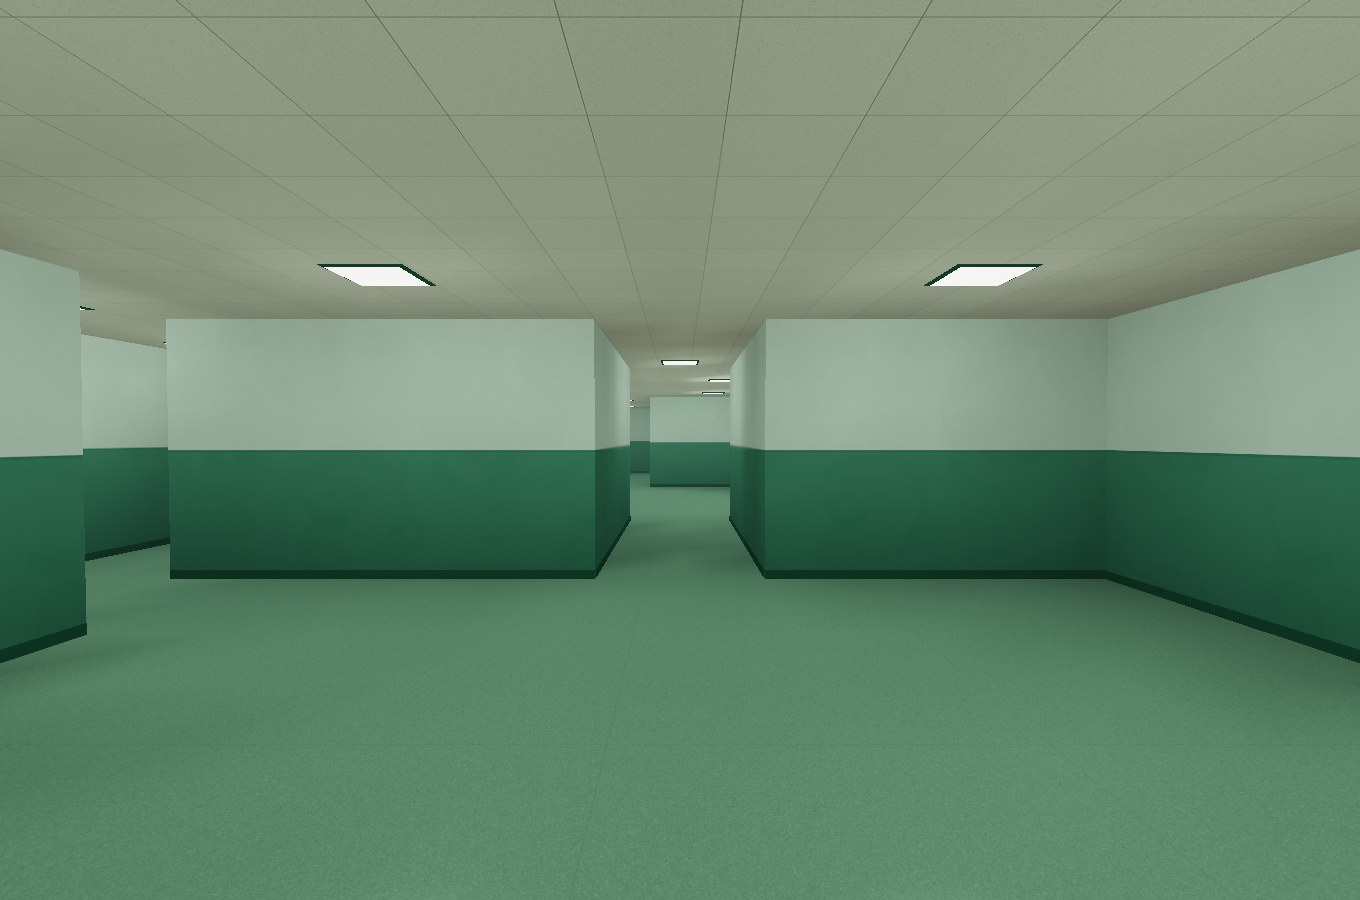
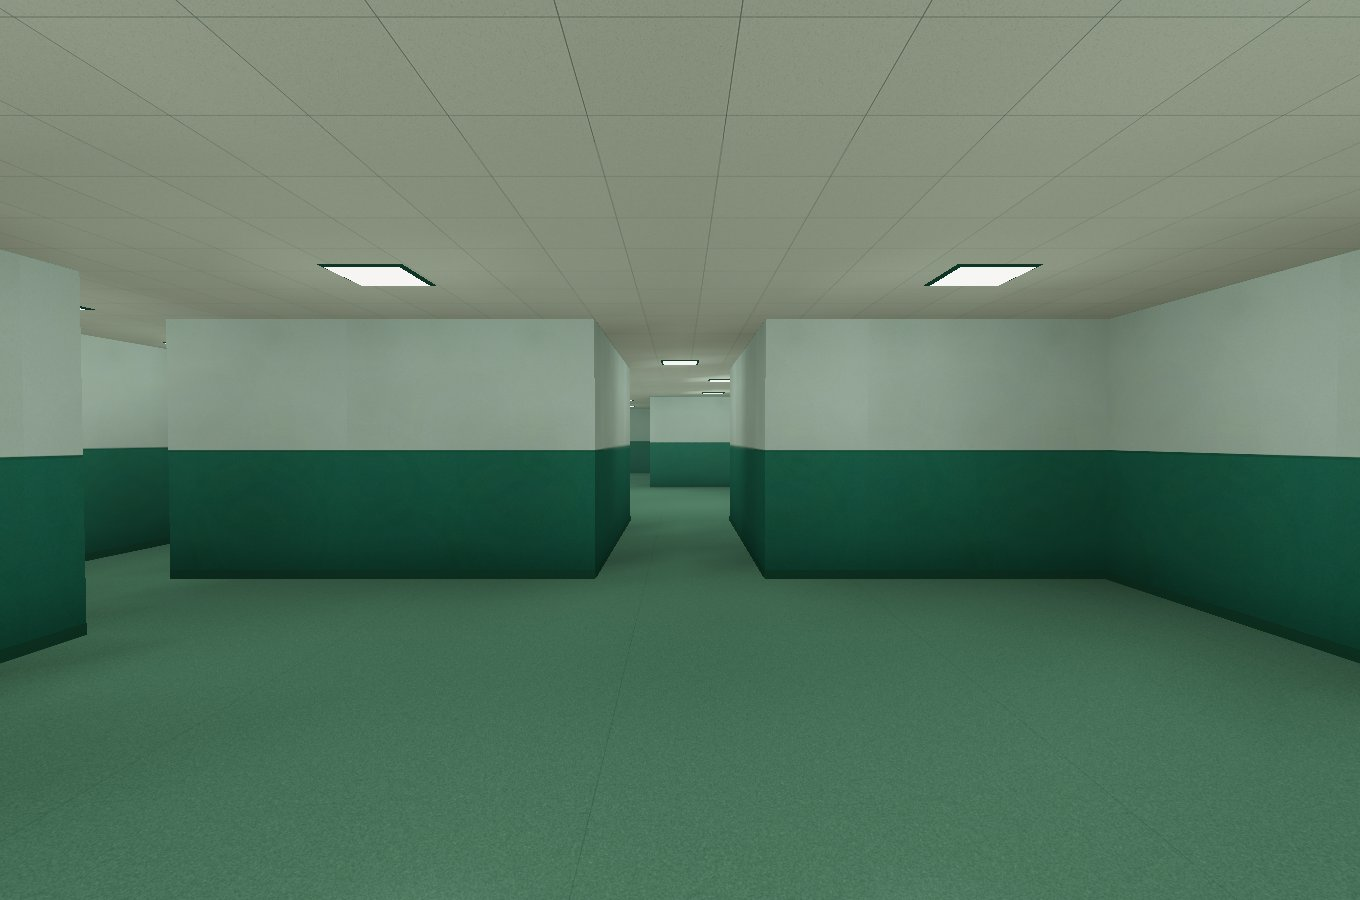
Refine hospital and pool materials, lighting, water reflections and ambient audio

diff --git a/materials.js b/materials.js
@@ -62,19 +62,21 @@ export function createTextures(anisotropy){
       stains(c,.045);
     },anisotropy),
     hospitalWall:texture(c=>{
-      c.fillStyle='#b3c2b4';c.fillRect(0,0,512,260);
-      c.fillStyle='#507f6b';c.fillRect(0,260,512,252);
-      c.fillStyle='#4a7765';c.fillRect(0,257,512,4);noise(c,4);stains(c,.035);
+      c.fillStyle='#b5beb0';c.fillRect(0,0,512,260);
+      c.fillStyle='#427665';c.fillRect(0,260,512,252);
+      c.fillStyle='#3d6d5c';c.fillRect(0,257,512,4);noise(c,6);stains(c,.055);
+      for(let i=0;i<70;i++){c.fillStyle='rgba(32,54,43,.09)';c.fillRect(random()*512,350+random()*162,3+random()*12,.7);}
       c.fillStyle='rgba(222,231,218,.11)';c.fillRect(0,505,512,2);
     },anisotropy),
     hospitalFloor:texture(c=>{
-      c.fillStyle='#6e8e79';c.fillRect(0,0,512,512);noise(c,14);
+      c.fillStyle='#678571';c.fillRect(0,0,512,512);noise(c,18);
       for(let i=0;i<4500;i++){c.fillStyle=random()>.5?'rgba(210,221,197,.13)':'rgba(33,67,48,.09)';c.fillRect(random()*512,random()*512,1.4,1.4);}
-      c.fillStyle='rgba(35,62,48,.09)';c.fillRect(0,0,1,512);c.fillRect(0,0,512,1);
+      c.fillStyle='rgba(35,62,48,.18)';c.fillRect(0,0,1,512);
+      for(let i=0;i<32;i++){c.strokeStyle='rgba(35,53,43,.055)';c.lineWidth=1+random()*2;c.beginPath();const x=random()*512,y=random()*512;c.moveTo(x,y);c.lineTo(x+8+random()*30,y+random()*8);c.stroke();}
     },anisotropy),
-    poolWall:texture(c=>{tiles(c,'#c8d7cc','#9daea4',64);noise(c,3);},anisotropy),
-    poolFloor:texture(c=>{tiles(c,'#c5d2c4','#8caaa0',64);noise(c,5);},anisotropy),
-    poolBottom:texture(c=>{tiles(c,'#76a7a4','#668f8d',32);noise(c,5);},anisotropy),
+    poolWall:texture(c=>{tiles(c,'#d3ded7','#8ba4a0',64);noise(c,4);},anisotropy),
+    poolFloor:texture(c=>{tiles(c,'#c4d2cb','#7f9a96',64);noise(c,8);},anisotropy),
+    poolBottom:texture(c=>{tiles(c,'#7daeb4','#507f88',32);noise(c,5);},anisotropy),
     ceiling:texture(c=>{
       tiles(c,'#c4c5b1','#8f9587',256);noise(c,12);
       c.fillStyle='rgba(54,59,43,.22)';for(let i=0;i<5400;i++)c.fillRect(random()*512,random()*512,1,1);
@@ -116,12 +118,24 @@ export const fragmentShader=`
   void main(){
     vec3 albedo=texture2D(map,vUv).rgb;
     vec3 color=albedo*vLight;
-    if(atmosphere>.5){
+    if(atmosphere>.5 && atmosphere<1.5){
       float wear=.5+.5*sin(vWorld.x*.63+sin(vWorld.z*.41))*sin(vWorld.z*.74+vWorld.x*.16);
       color*=.91+.09*wear;
       // Slow, shallow light drift: no abrupt flashes, disabled for reduced motion.
       color*=.978+.022*sin(time*.64+vWorld.x*.21+vWorld.z*.18);
       if(abs(vNormal.y)<.5)color*=.86+.14*smoothstep(.0,.65,vWorld.y);
+    }
+    if(atmosphere>1.5 && atmosphere<2.5){
+      float scuff=.5+.5*sin(vWorld.x*.8+vWorld.z*.33)*sin(vWorld.z*1.2);
+      color*=.91+.09*scuff;
+      if(abs(vNormal.y)<.5)color*=.83+.17*smoothstep(0.,.55,vWorld.y);
+    }
+    if(atmosphere>2.5){
+      // Soft reflected ripples along the lower tiled walls.
+      float wave=sin(vWorld.x*4.7+vWorld.z*3.8+sin(vWorld.y*5.+time*.5));
+      float crossWave=sin(vWorld.x*2.6-vWorld.z*5.1+time*.42+vWorld.y*3.);
+      float caustic=pow(max(0.,1.-abs(wave+crossWave)*.6),9.);
+      color+=vec3(.035,.065,.07)*caustic*exp(-max(0.,vWorld.y)*.9);
     }
     vec3 view=normalize(cameraPosition-vWorld);
     if(gloss>0.0 && vNormal.y>.5){
@@ -130,7 +144,7 @@ export const fragmentShader=`
         for(int i=0;i<8;i++){
           float t=(lamps[i].y-vWorld.y)/ray.y;
           vec2 d=vWorld.xz+ray.xz*t-lamps[i].xz;
-          float halo=exp(-dot(d,d)*2.5);
+          float halo=exp(-pow(d.x*2.8,4.)-pow(d.y*1.6,4.))*.65+exp(-dot(d,d)*1.4)*.18;
           float falloff=1./(1.+t*.08);
           color+=vec3(.72,.82,.7)*halo*falloff*gloss;
         }
@@ -162,8 +176,8 @@ export const waterFragment=`
     vec2 uv=p*4.2+vec2(a,b)*.065;
     vec2 tile=abs(fract(uv)-.5);
     float grout=smoothstep(.47,.49,max(tile.x,tile.y));
-    float caustic=pow(.5+.5*sin(p.x*9.+sin(p.y*7.+time*.3)+time*.36),14.)*.04;
-    vec3 color=mix(vec3(.105,.31,.30),vec3(.19,.39,.38),fresnel);
+    float caustic=pow(max(0.,1.-abs(sin(p.x*8.+sin(p.y*5.+time*.3))+cos(p.y*7.-time*.36))*.5),12.)*.085;
+    vec3 color=mix(vec3(.085,.28,.32),vec3(.22,.40,.43),fresnel);
     color*=1.-grout*.22;color+=caustic;
     vec3 ray=reflect(-v,n);
     if(ray.y>.01)for(int i=0;i<8;i++){

diff --git a/engine.js b/engine.js
@@ -1,6 +1,6 @@
 import * as THREE from './vendor/three.module.min.js';
-import {createTextures} from './materials.js?v=yellow-2';
-import {buildArchitecture} from './architecture.js?v=yellow-2';
+import {createTextures} from './materials.js?v=zones-3';
+import {buildArchitecture} from './architecture.js?v=zones-3';
 import {zoneAt,movePlayer,heights} from './layout.js';
 import {installTouchControls,createJump} from './controls.js?v=touch-1';
 
@@ -29,7 +29,8 @@ const touch=installTouchControls(canvas,[...document.querySelectorAll('#touch-co
 });
 document.body.classList.toggle('has-touch',navigator.maxTouchPoints>0);
 let last=performance.now(),time=0,steps=0,lampTimer=1,dragging=false,muted=false;
-let audio=null,humGain=null,noiseGain=null,filter=null;
+let audio=null,humGain=null,noiseGain=null,filter=null,poolGain=null,echo=null;
+let nextDrip=3;
 const reduceMotion=matchMedia('(prefers-reduced-motion: reduce)').matches;
 const moods={yellow:{fog:'#797653',density:.021},hospital:{fog:'#45675b',density:.025},pool:{fog:'#8aada5',density:.023}};
 const fogTarget=new THREE.Color();
@@ -53,7 +54,20 @@ function startAudio(){
   filter=audio.createBiquadFilter();filter.type='lowpass';filter.frequency.value=850;
   noiseGain=audio.createGain();noiseGain.gain.value=.07;
   source.connect(filter);filter.connect(noiseGain);noiseGain.connect(audio.destination);source.start();
+  // Short feedback echo gives the tiled rooms a different acoustic space.
+  poolGain=audio.createGain();poolGain.gain.value=0;poolGain.connect(audio.destination);
+  echo=audio.createDelay(1);echo.delayTime.value=.23;
+  const feedback=audio.createGain();feedback.gain.value=.32;
+  const damping=audio.createBiquadFilter();damping.type='lowpass';damping.frequency.value=1800;
+  echo.connect(damping);damping.connect(feedback);feedback.connect(echo);damping.connect(poolGain);
   audio.resume().catch(()=>{});
+}
+function waterDrop(){
+  const now=audio.currentTime,osc=audio.createOscillator(),gain=audio.createGain();
+  osc.type='sine';osc.frequency.setValueAtTime(950,now);osc.frequency.exponentialRampToValueAtTime(380,now+.12);
+  gain.gain.setValueAtTime(0,now);gain.gain.linearRampToValueAtTime(.022,now+.006);gain.gain.exponentialRampToValueAtTime(.0001,now+.23);
+  osc.connect(gain);gain.connect(poolGain);gain.connect(echo);osc.start(now);osc.stop(now+.25);
+  osc.onended=()=>{osc.disconnect();gain.disconnect();};
 }
 canvas.addEventListener('pointerdown',e=>{
   if(e.pointerType!=='mouse'||e.button!==0)return;
@@ -118,8 +132,10 @@ function animate(now){
     const proximity=1/(1+Math.hypot(closest.x-player.x,closest.z-player.z)*.6);
     const buzz=zone==='yellow'?.005+proximity*.009*(.92+.08*Math.sin(time*.64)):zone==='pool'?.002:.008;
     humGain.gain.setTargetAtTime(muted?0:buzz,audio.currentTime,.4);
-    noiseGain.gain.setTargetAtTime(muted?0:zone==='pool'?.14:.055,audio.currentTime,.4);
-    filter.frequency.setTargetAtTime(zone==='pool'?1400:650,audio.currentTime,.5);
+    noiseGain.gain.setTargetAtTime(muted?0:zone==='pool'?.11*(.88+.12*Math.sin(time*.37)):zone==='hospital'?.04:.055,audio.currentTime,.4);
+    filter.frequency.setTargetAtTime(zone==='pool'?1100:zone==='hospital'?340:650,audio.currentTime,.5);
+    poolGain.gain.setTargetAtTime(muted||zone!=='pool'?0:.45,audio.currentTime,.3);
+    if(zone==='pool'&&!muted){nextDrip-=dt;if(nextDrip<=0){waterDrop();nextDrip=3.5+Math.random()*4.5;}}
   }
   renderer.render(scene,camera);
 }

diff --git a/architecture.js b/architecture.js
@@ -1,15 +1,15 @@
 import * as THREE from './vendor/three.module.min.js';
 import {floor,WIDTH,DEPTH,rooms,corridors,pools,columns,isFloor,zoneAt,heights,lineOfSight} from './layout.js';
-import {vertexShader,fragmentShader,waterVertex,waterFragment} from './materials.js?v=yellow-2';
+import {vertexShader,fragmentShader,waterVertex,waterFragment} from './materials.js?v=zones-3';
 
 export function buildArchitecture(scene,textures,shared){
   const lamps=[];
-  const lightColors={yellow:[1,.95,.75],hospital:[.78,1,.87],pool:[.83,.96,1]};
+  const lightColors={yellow:[1,.95,.75],hospital:[.70,.92,.86],pool:[.83,.96,1]};
   function lamp(x,z){
     if(!isFloor(x,z)||lamps.some(l=>Math.hypot(l.x-x,l.z-z)<2.65))return;
     const zone=zoneAt(x,z);
     const variation=(Math.sin(x*12.9898+z*78.233)*43758.5453)%1;
-    const power=zone==='yellow'?.38+.85*Math.abs(variation):1;
+    const power=zone==='yellow'?.38+.85*Math.abs(variation):zone==='hospital'?.65+.5*Math.abs(variation):.9+.2*Math.abs(variation);
     lamps.push({x,z,y:heights[zone]-.09,zone,power,color:lightColors[zone]});
   }
   rooms.forEach(r=>{
@@ -140,7 +140,7 @@ export function buildArchitecture(scene,textures,shared){
     geo.setAttribute('uv',new THREE.Float32BufferAttribute(g.uv,2));
     geo.setAttribute('light',new THREE.Float32BufferAttribute(g.light,3));geo.computeBoundingSphere();
     const material=new THREE.ShaderMaterial({
-      vertexShader,fragmentShader,uniforms:{...shared,map:{value:textures[name]},atmosphere:{value:name.startsWith('yellow')?1:0},gloss:{value:name==='hospitalFloor'?.16:name==='poolFloor'?.21:0},emission:{value:name==='light'?2.6:0}}
+      vertexShader,fragmentShader,uniforms:{...shared,map:{value:textures[name]},atmosphere:{value:name.startsWith('yellow')?1:name.startsWith('hospital')?2:name.startsWith('pool')?3:0},gloss:{value:name==='hospitalFloor'?.23:name==='poolFloor'?.30:0},emission:{value:name==='light'?2.6:0}}
     });
     const mesh=new THREE.Mesh(geo,material);scene.add(mesh);triangles+=g.p.length/9;
   }

diff --git a/index.html b/index.html
@@ -16,6 +16,6 @@
     <button type="button" data-action="jump">Salta</button>
   </div>
   <noscript>Attiva JavaScript per esplorare FLOOR 05.</noscript>
-  <script type="module" src="engine.js?v=yellow-2"></script>
+  <script type="module" src="engine.js?v=zones-3"></script>
 </body>
 </html>

diff --git a/README.md b/README.md
@@ -14,6 +14,8 @@ Il rendering usa Three.js r170 incluso nel repository, texture procedurali, illu
 
 La zona gialla usa carta da parati procedurale ispirata ai riferimenti forniti: doppie righe, chevron consumati e trama tessuta. Moquette a fibre corte, angoli più scuri e neon di intensità diversa. Il ronzio varia con la distanza dalle lampade. Le oscillazioni luminose sono lente e leggere; si fermano con la preferenza di sistema per il movimento ridotto. Nessuna immagine di riferimento viene scaricata durante il gioco.
 
+L'ospedale ha vernice bicolore consumata, linoleum con giunture e segni leggeri, luce fredda non uniforme e ventilazione ovattata. Le piscine hanno fughe più definite, acqua azzurra con riflessi e caustiche animate, riverberi sulle superfici e gocce occasionali con eco. I suoni cambiano gradualmente attraversando le zone; il suono della piscina sfuma quando si esce. Gli effetti d'acqua sono stilizzati, senza riflessioni ray tracing, per contenere il costo sui dispositivi mobili.
+
 Verifica della pianta: `node verify-layout.mjs`. Il test controlla la raggiungibilità con il raggio del giocatore, le tre zone, la posizione iniziale e le collisioni con pareti e vasche.
 
 Le immagini sotto sono render locali della stessa geometria, degli stessi materiali e shader. Non sono screenshot di una sessione nel browser. Il browser remoto di prova ha WebGL disabilitato: la verifica interattiva grafica resta da completare su un browser compatibile.
